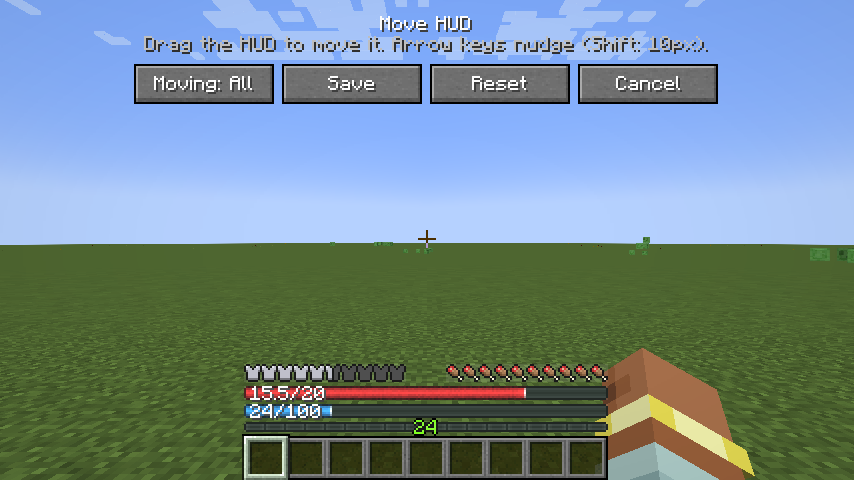
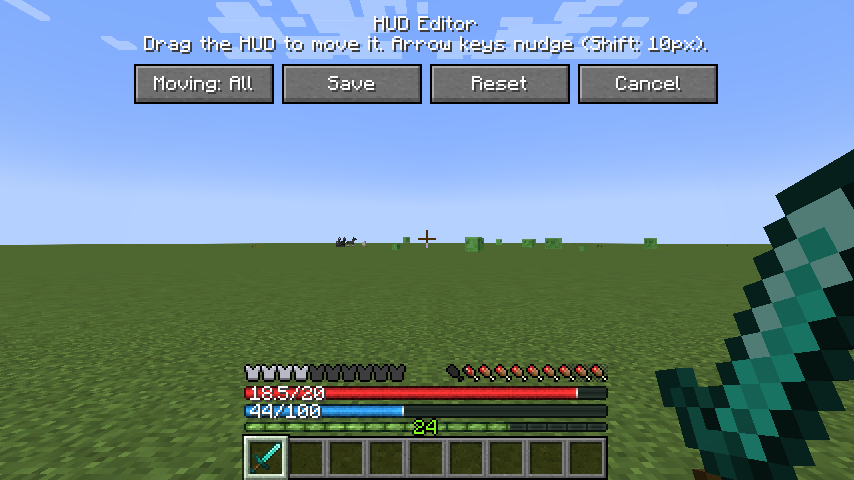
docs: new screenshots for Confluence, no mana mod, Advanced mode and the HUD Editor
Replaces the side-by-side half bars picture, which showed a layout that was removed, and
retakes the config screen and HUD Editor pictures for the new interface.

diff --git a/docs/curseforge-description.md b/docs/curseforge-description.md
@@ -22,9 +22,13 @@ My original plan was to only replace the vanilla hearts with an RPG-style health
 
 ![Poisoned health bar and green hunger bar from the Hunger effect](https://raw.githubusercontent.com/joshua-fonseca/mc-rpg-health-bar/main/docs/images/status-colors.png)
 
-#### Half-size health and mana bars
+#### Confluence: Otherworld's mana bar
 
-![Half-size health and mana bars above the hotbar](https://raw.githubusercontent.com/joshua-fonseca/mc-rpg-health-bar/main/docs/images/half-bars.png)
+![Confluence's mana in its own darker blue bar under the health bar, with armor and hunger as bars](https://raw.githubusercontent.com/joshua-fonseca/mc-rpg-health-bar/main/docs/images/confluence-mana.png)
+
+#### No mana mod? No mana bar
+
+![Without a mana mod: just the health bar, with the vanilla armor and hunger icons](https://raw.githubusercontent.com/joshua-fonseca/mc-rpg-health-bar/main/docs/images/no-mana.png)
 
 #### AppleSkin: saturation and food preview
 
@@ -67,9 +71,19 @@ My original plan was to only replace the vanilla hearts with an RPG-style health
 
 ![Choosing a spell in Iron's spell wheel shows the mana it costs on the mana bar, then casting it uses that mana](https://raw.githubusercontent.com/joshua-fonseca/mc-rpg-health-bar/main/docs/images/spell-cast.gif)
 
+## Settings
+
 #### The config screen
 
 ![The config screen: options in sections on the right, and the preview of the HUD on the left](https://raw.githubusercontent.com/joshua-fonseca/mc-rpg-health-bar/main/docs/images/config.png)
+
+#### Advanced mode: the width options open the HUD Editor
+
+![The config screen in Advanced mode: the width options are Edit in HUD Editor buttons, and the preview shows the resized bars](https://raw.githubusercontent.com/joshua-fonseca/mc-rpg-health-bar/main/docs/images/advanced-settings.png)
+
+#### Advanced mode: resizing bars in the HUD Editor
+
+![The HUD Editor in Advanced mode: the health bar shortened from its right end, the mana bar from its left, and the XP bar made longer](https://raw.githubusercontent.com/joshua-fonseca/mc-rpg-health-bar/main/docs/images/resize-bars.png)
 
 #### Moving the whole HUD
 

diff --git a/README.md b/README.md
@@ -41,9 +41,13 @@ A highly customizable, client-side GUI mod. Replaces the vanilla hearts with an 
 
 ![Poisoned health bar and green hunger bar from the Hunger effect](docs/images/status-colors.png)
 
-#### Half-size health and mana bars
+#### Confluence: Otherworld's mana bar
 
-![Half-size health and mana bars above the hotbar](docs/images/half-bars.png)
+![Confluence's mana in its own darker blue bar under the health bar, with armor and hunger as bars](docs/images/confluence-mana.png)
+
+#### No mana mod? No mana bar
+
+![Without a mana mod: just the health bar, with the vanilla armor and hunger icons](docs/images/no-mana.png)
 
 #### AppleSkin: saturation and food preview
 
@@ -83,6 +87,14 @@ Defaults are in bold:
 #### The config screen
 
 ![The config screen: options in sections on the right, and the preview of the HUD on the left](docs/images/config.png)
+
+#### Advanced mode: the width options open the HUD Editor
+
+![The config screen in Advanced mode: the width options are Edit in HUD Editor buttons, and the preview shows the resized bars](docs/images/advanced-settings.png)
+
+#### Advanced mode: resizing bars in the HUD Editor
+
+![The HUD Editor in Advanced mode: the health bar shortened from its right end, the mana bar from its left, and the XP bar made longer](docs/images/resize-bars.png)
 
 #### Moving the whole HUD
 
